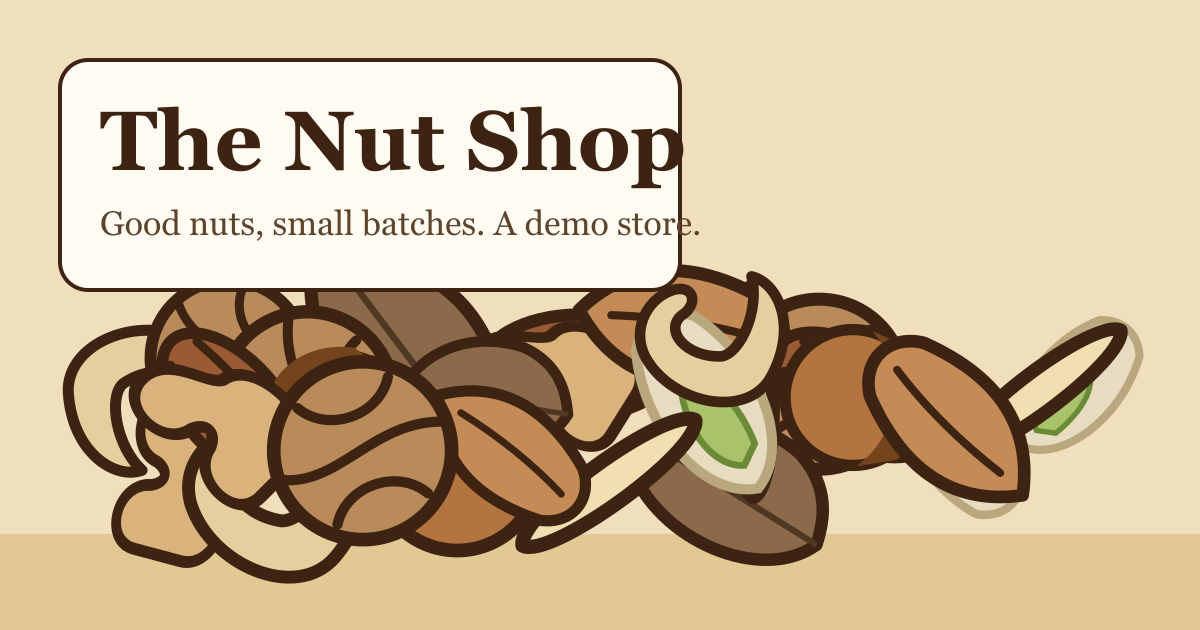
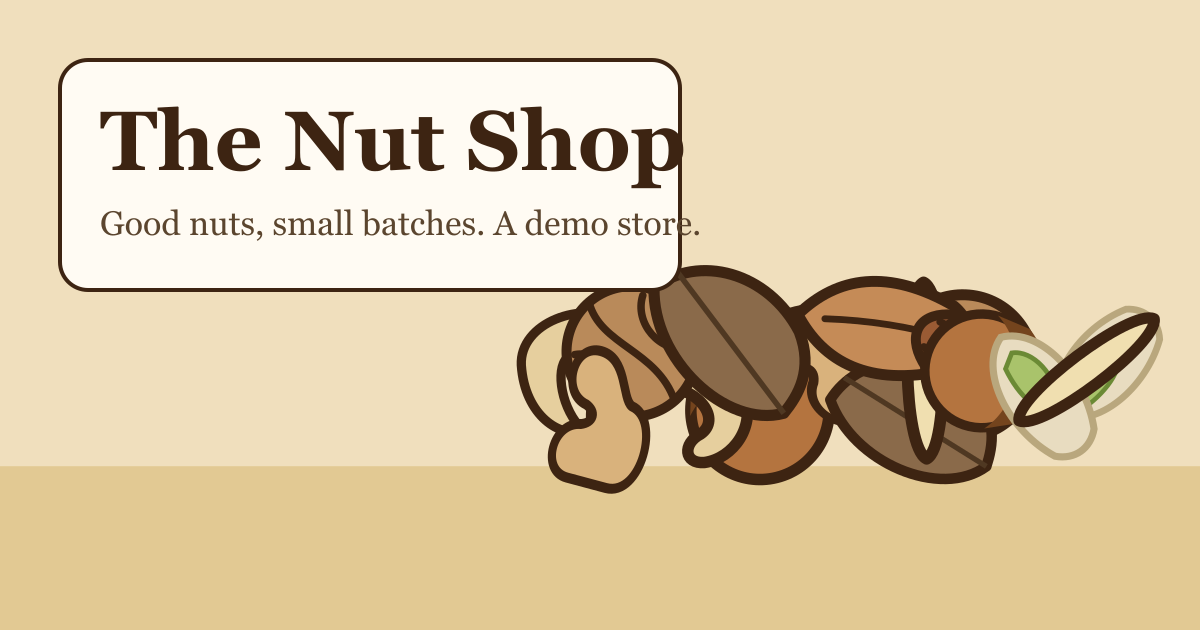
style(ui): two-up compact product grids from 360px, balanced desktop hero with 3:2 illustration

diff --git a/src/styles.css b/src/styles.css
@@ -285,11 +285,61 @@ a:hover {
   gap: var(--s-5);
   grid-template-columns: minmax(0, 1fr);
 }
-@media (min-width: 36rem) {
-  .grid-2,
+/* Card grids are two per row from 360px, with compact cards below 36rem. */
+@media (min-width: 22.5rem) {
   .grid-3,
   .grid-4 {
     grid-template-columns: repeat(2, minmax(0, 1fr));
+    gap: var(--s-3);
+  }
+}
+@media (min-width: 36rem) {
+  .grid-2 {
+    grid-template-columns: repeat(2, minmax(0, 1fr));
+  }
+  .grid-3,
+  .grid-4 {
+    gap: var(--s-5);
+  }
+}
+@media (max-width: 35.99rem) {
+  .grid-3 .card-body,
+  .grid-4 .card-body {
+    gap: var(--s-1);
+    padding: var(--s-3) var(--s-3) var(--s-4);
+  }
+  .grid-3 .card-title,
+  .grid-4 .card-title {
+    font-size: var(--fs-1);
+    line-height: 1.25;
+  }
+  .grid-3 .card-text,
+  .grid-4 .card-text {
+    display: -webkit-box;
+    -webkit-line-clamp: 2;
+    -webkit-box-orient: vertical;
+    overflow: hidden;
+    font-size: 0.8125rem;
+    line-height: 1.4;
+  }
+  .grid-3 .price,
+  .grid-4 .price {
+    font-size: var(--fs-2);
+  }
+  .grid-3 .badge,
+  .grid-4 .badge {
+    padding-inline: var(--s-2);
+    font-size: 0.75rem;
+  }
+  .grid-3 .meta,
+  .grid-4 .meta {
+    gap: var(--s-1) var(--s-2);
+    font-size: 0.75rem;
+  }
+  .grid-3 .card-media,
+  .grid-4 .card-media {
+    aspect-ratio: 4 / 3;
+    overflow: hidden;
   }
 }
 @media (min-width: 60rem) {
@@ -825,12 +875,37 @@ a.card {
 .hero-art img {
   width: 100%;
   height: auto;
+  aspect-ratio: 2 / 1;
+  object-fit: cover;
 }
 @media (min-width: 52rem) {
   .hero {
-    grid-template-columns: minmax(0, 5fr) minmax(0, 6fr);
+    grid-template-columns: minmax(0, 1fr) minmax(0, 1fr);
+    align-items: stretch;
     gap: var(--s-7);
     padding-block: var(--s-7) 0;
+  }
+  .hero > div:first-child {
+    display: flex;
+    flex-direction: column;
+    justify-content: space-between;
+    gap: var(--s-5);
+    padding-block: var(--s-1);
+  }
+  .hero-foot {
+    display: grid;
+    gap: var(--s-5);
+  }
+  .hero .lead,
+  .hero .actions {
+    margin-top: 0;
+  }
+  .hero-art {
+    min-height: 19rem;
+  }
+  .hero-art img {
+    height: 100%;
+    aspect-ratio: auto;
   }
 }
 .band {

diff --git a/scripts/gen-images.ts b/scripts/gen-images.ts
@@ -136,18 +136,17 @@ function postSvg(p: Post): string {
   return frame(1200, 630, PAL.blog!, inner);
 }
 
-const ogCard = (heroSvg: string): string =>
-  `<svg xmlns="http://www.w3.org/2000/svg" width="1200" height="630" viewBox="0 0 1200 630"><rect width="1200" height="630" fill="#f0dfbd"/><g transform="translate(0 90)">${heroSvg.replace(/^<svg[^>]*>/, '<svg width="1200" height="600" viewBox="0 0 1200 600">')}</g><rect x="60" y="60" width="620" height="230" rx="28" fill="#fffbf3" stroke="${INK}" stroke-width="4"/><text x="100" y="170" font-family="Georgia,serif" font-weight="700" font-size="84" fill="${INK}">The Nut Shop</text><text x="100" y="235" font-family="Georgia,serif" font-size="34" fill="#5b452e">Good nuts, small batches. A demo store.</text></svg>`;
+const ogCard = (): string =>
+  frame(1200, 630, PAL["raw-nuts"]!, pile("hero", KINDS, 840, 420, 560, 18, 2.6)).replace(
+    "</svg>",
+    `<rect x="60" y="60" width="620" height="230" rx="28" fill="#fffbf3" stroke="${INK}" stroke-width="4"/><text x="100" y="170" font-family="Georgia,serif" font-weight="700" font-size="84" fill="${INK}">The Nut Shop</text><text x="100" y="235" font-family="Georgia,serif" font-size="34" fill="#5b452e">Good nuts, small batches. A demo store.</text></svg>`,
+  );
 
 const w = (path: string, data: string) => Bun.write(`public/${path}`, data);
 
-const hero = frame(1200, 600, PAL["raw-nuts"]!, pile("hero", KINDS, 600, 400, 1000, 30, 3.1));
+const hero = frame(1200, 800, PAL["raw-nuts"]!, pile("hero", KINDS, 600, 480, 860, 22, 3.7));
 await w("img/hero.svg", hero);
-const jobs: Promise<unknown>[] = [
-  sharp(Buffer.from(ogCard(hero)))
-    .png()
-    .toFile("public/og/home.png"),
-];
+const jobs: Promise<unknown>[] = [sharp(Buffer.from(ogCard())).png().toFile("public/og/home.png")];
 await Bun.write("public/og/.keep", "");
 for (const p of products) {
   const svg = productSvg(p);

diff --git a/src/pages/shop.tsx b/src/pages/shop.tsx
@@ -99,29 +99,34 @@ export function HomePage() {
       <section className="hero">
         <div>
           <h1>Good nuts, small batches</h1>
-          <p className="lead" style={fault("low-contrast-text") ? { color: "#b9b9b9" } : undefined}>
-            Raw and roasted nuts, spreads ground in small jars, and boxes ready to give.
-          </p>
-          <p className="actions">
-            <a href="/shop" className="btn">
-              Browse all products
-            </a>
-            <a href="/blog" className="btn-secondary">
-              Read the journal
-            </a>
-          </p>
-          {fault("redirect-chain-3-hops") ? (
-            <p className="section-tight">
-              <a href="/_fault/r1">Seasonal picks</a>
+          <div className="hero-foot">
+            <p
+              className="lead"
+              style={fault("low-contrast-text") ? { color: "#b9b9b9" } : undefined}
+            >
+              Raw and roasted nuts, spreads ground in small jars, and boxes ready to give.
             </p>
-          ) : null}
+            <p className="actions">
+              <a href="/shop" className="btn">
+                Browse all products
+              </a>
+              <a href="/blog" className="btn-secondary">
+                Read the journal
+              </a>
+            </p>
+            {fault("redirect-chain-3-hops") ? (
+              <p className="section-tight">
+                <a href="/_fault/r1">Seasonal picks</a>
+              </p>
+            ) : null}
+          </div>
         </div>
         <div className="hero-art">
           <Img
             src={heroSrc}
             alt="A heap of illustrated almonds, walnuts, pecans and cashews"
             width={1200}
-            height={600}
+            height={800}
             priority
           />
         </div>
